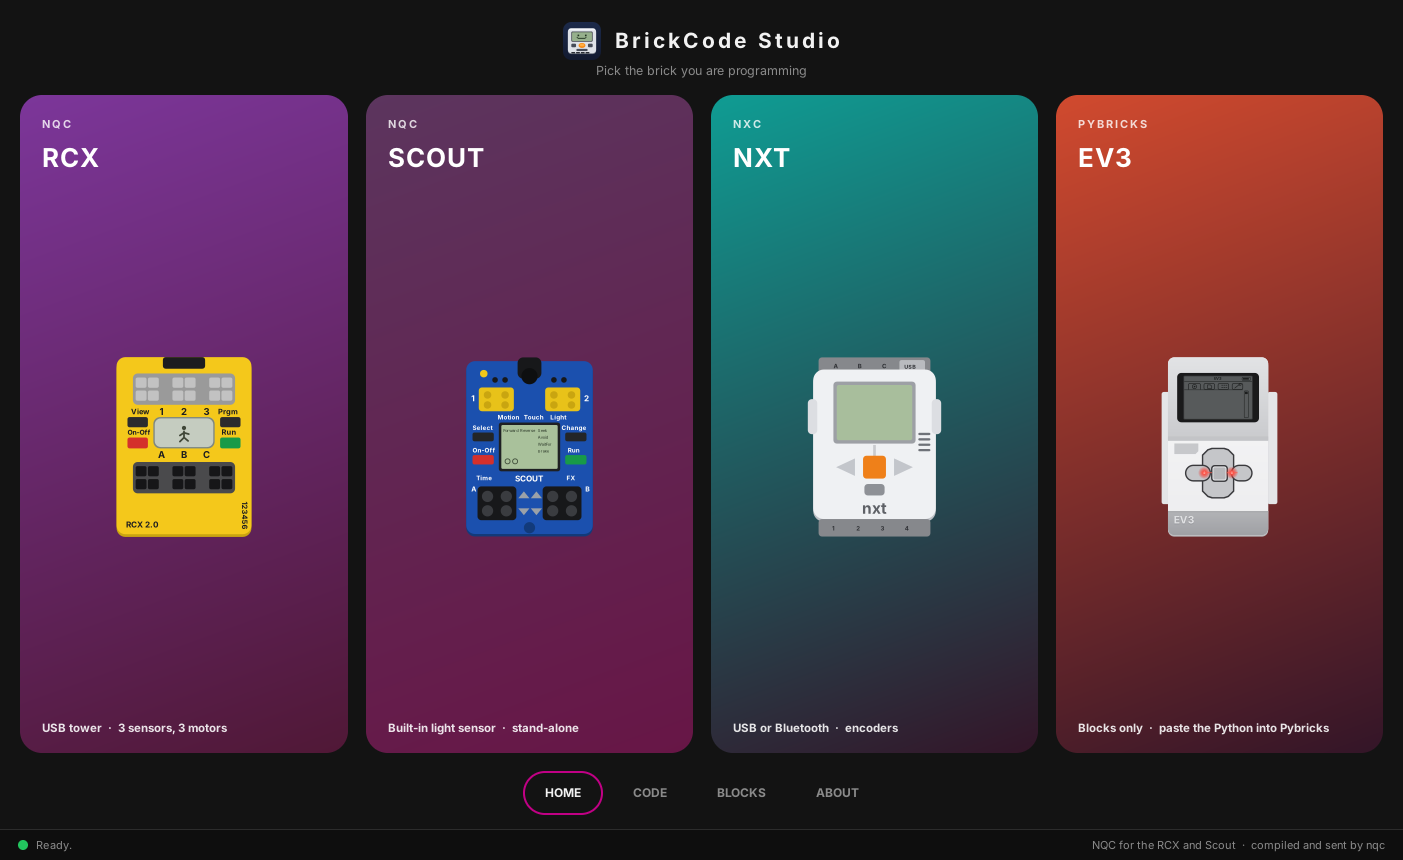
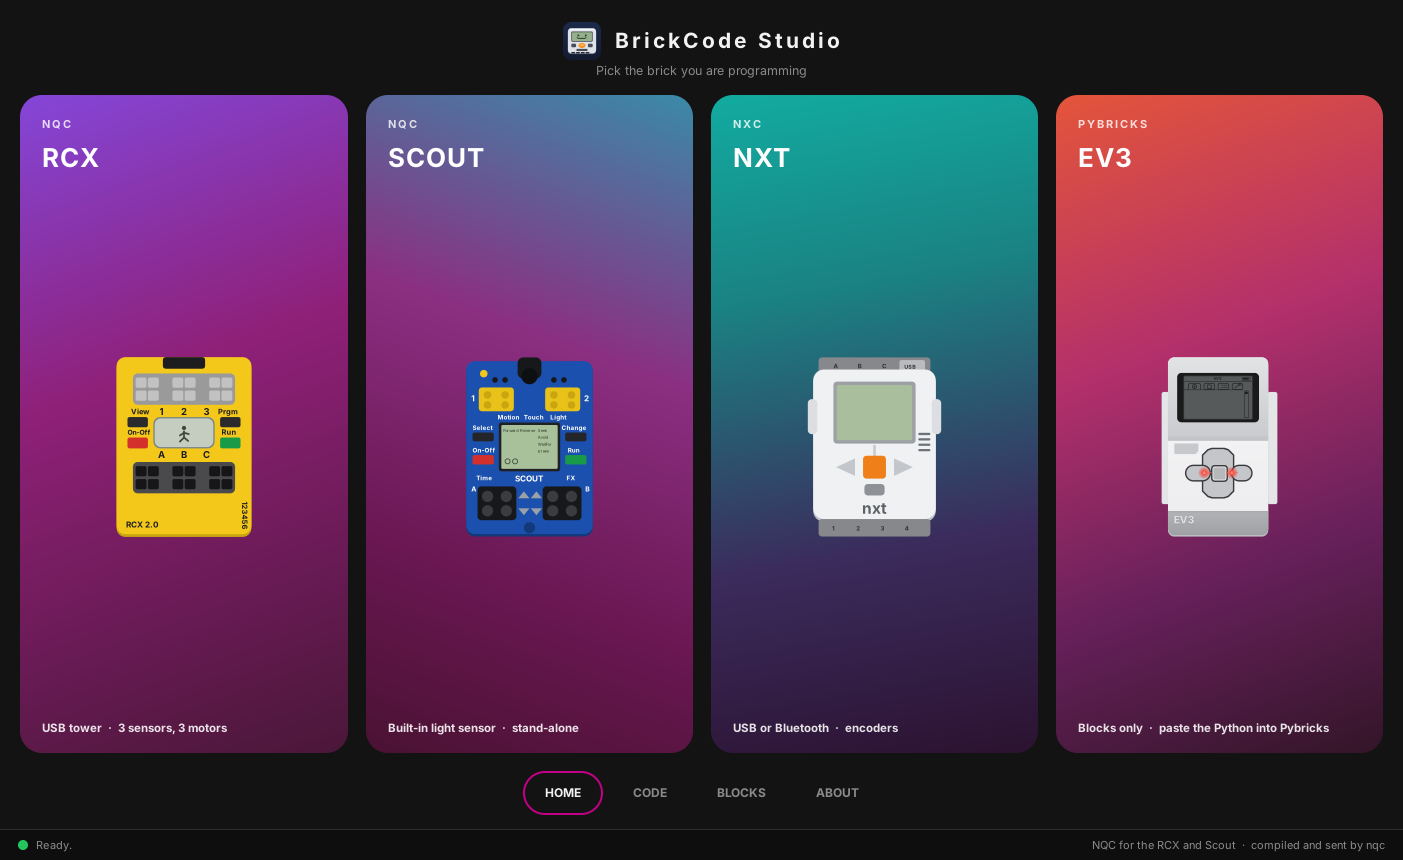
Dashboard: blended multi-colour gradients on the four cards
Three and four colour fades (violet to magenta to wine, teal to indigo,
red to magenta to purple) rather than two-colour ones. README screenshot
regenerated. No version change.

Claude-Session: https://claude.ai/code/session_01RGFhntjoSVCNUdNCgVpohL

diff --git a/brickcode-studio/brickcode-studio.c b/brickcode-studio/brickcode-studio.c
@@ -2403,10 +2403,10 @@ static void apply_omarchy_style(AppState *st) {
         "button.brick-card { border: none; box-shadow: none; padding: 22px 22px 18px 22px; "
         "  border-radius: 22px; }"
         "button.brick-card:hover { box-shadow: 0 0 0 2px rgba(255,255,255,0.22); }"
-        ".bcard-rcx   { background-image: linear-gradient(160deg, #7C369A, #501836); }"
-        ".bcard-scout { background-image: linear-gradient(160deg, #5C355E, #671646); }"
-        ".bcard-nxt   { background-image: linear-gradient(160deg, #0F9C93, #331528); }"
-        ".bcard-ev3   { background-image: linear-gradient(160deg, #D14A2E, #331528); }"
+        ".bcard-rcx   { background-image: linear-gradient(160deg, #8446D8 0%, #8F2078 42%, #4A1738 100%); }"
+        ".bcard-scout { background-image: linear-gradient(200deg, #3A8AA8 0%, #8B2F82 38%, #6A1752 72%, #4A1233 100%); }"
+        ".bcard-nxt   { background-image: linear-gradient(170deg, #12ABA0 0%, #1A8283 30%, #3B2B5C 68%, #2B1230 100%); }"
+        ".bcard-ev3   { background-image: linear-gradient(160deg, #E4553A 0%, #B3306B 38%, #66205A 70%, #331528 100%); }"
         ".bc-lang { color: alpha(#FFFFFF,0.80); font-size: 11px; font-weight: bold; letter-spacing: 2px; }"
         ".bc-name { font-family: \"" APP_FONT "\", sans-serif; color: #FFFFFF; "
 "  font-size: 26px; font-weight: bold; letter-spacing: 1px; }"

diff --git a/CHANGELOG.md b/CHANGELOG.md
@@ -41,8 +41,9 @@ All notable changes to BrickCode Studio. Dates are release dates.
   height, whatever the shape of the card, and the widths stay natural. The
   cards were also different widths (the EV3 footer line is the longest), and
   the drawing grows with the card, so the row is now homogeneous.
-- The EV3 card uses the NXT card's kind of gradient, a bright colour fading
-  to the same deep wine at the bottom.
+- The dashboard cards use blended gradients of three or four colours (violet to
+  magenta to wine, teal to indigo, red to magenta to purple) instead of two-colour
+  fades, which is closer to the look of the original MINDSTORMS home screen.
 
 ### Changed
 - The dashboard screenshot in the README was stale; it is regenerated, with the
